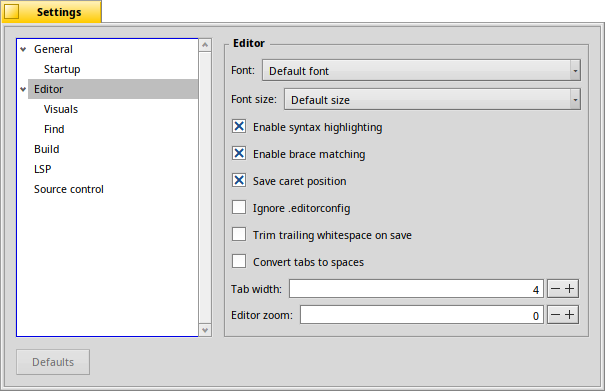
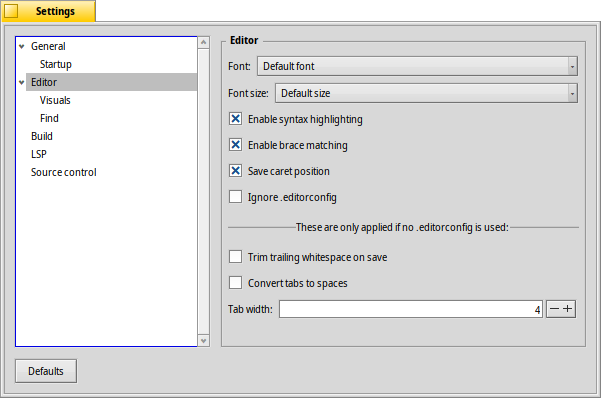
Update documenation
* Menus:
  + Add "Import as RDEF array…" feature.
  + Mention "Show in projects browser" is available from tabs'
    context menus.

* Panes:
  + Fix typos
  + Explicitely mention that double-clicking non-text files will
    open them in their preferred app, with examples.

* Genio settings:
  + Fix anker URLs in index.
  + Move "Editor zoom" setting from Editor to Visuals.

* Toolbar:
  + Changed shortcut for previous/next file from OPT to CTRL.

* Updated screenshots

Changed region(s): [[0.0, 0.0, 1.0, 0.9821]]

diff --git a/documentation/settings-genio.html b/documentation/settings-genio.html
@@ -45,7 +45,7 @@
 
 <h2>
 <a href="#"><img src="./images/up.png" style="border:none;float:right" alt="index" /></a>
-<a id="genio-general" name="genio-general">General</a></h2>
+<a id="general" name="general">General</a></h2>
 
 <p style="text-align:center"><img src="./images/genio-settings-general.png" style="border:none;padding:15px" alt="Genio settings: General" /></p>
 
@@ -69,7 +69,7 @@
 
 <h2>
 <a href="#"><img src="./images/up.png" style="border:none;float:right" alt="index" /></a>
-<a id="genio-general_startup" name="genio-general_startup">General / Startup</a></h2>
+<a id="general_startup" name="general_startup">General / Startup</a></h2>
 
 <p style="text-align:center"><img src="./images/genio-settings-general_startup.png" style="border:none;padding:15px" alt="Genio settings: General / Startup" /></p>
 
@@ -78,7 +78,7 @@
 
 <h2>
 <a href="#"><img src="./images/up.png" style="border:none;float:right" alt="index" /></a>
-<a id="genio-editor" name="genio-editor">Editor</a></h2>
+<a id="editor" name="editor">Editor</a></h2>
 
 <p style="text-align:center"><img src="./images/genio-settings-editor.png" style="border:none;padding:15px" alt="Genio settings: Editor" /></p>
 
@@ -94,27 +94,25 @@
 
 <tr><td class="onelinetop"><span class="menu">Ignore .editorconfig</span></td>
 <td>Opt out of code formatting by <a href="https://editorconfig.org/">EditorConfig</a> (if your project uses that).</td></tr>
+</table>
 
+<p>The rest of the settings are only applied if no <span class="cli">.editorconfig</span> is being used. That is, you either have the above <span class="menu">Ignore .editorconfig</span> checked, or your project simply doesn't use EditorConfig.</p>
+
+<table summary="layout">
 <tr><td class="onelinetop"><span class="menu">Trim trailing whitespace on save</span></td>
-<td>Automatically removes those pesky spaces and tabs at the end of lines when you save a file.<br />
-This setting is only applied if no <span class="cli">.editorconfig</span> is being used.</td></tr>
+<td>Automatically removes those pesky spaces and tabs at the end of lines when you save a file.</td></tr>
 
 <tr><td class="onelinetop"><span class="menu">Convert tabs to spaces</span></td>
-<td>While active, entered tabs are replaced with spaces. Tabs that are already in a file <i>are not</i> replaced.<br />
-This setting is only applied if no <span class="cli">.editorconfig</span> is being used.</td></tr>
+<td>While active, entered tabs are replaced with spaces. Tabs that are already in a file <i>are not</i> replaced.</td></tr>
 
 <tr><td class="onelinetop"><span class="menu">Tab width</span></td>
-<td>Sets the width of tabs in spaces.<br />
-This setting is only applied if no <span class="cli">.editorconfig</span> is being used.</td></tr>
-
-<tr><td class="onelinetop"><span class="menu">Editor zoom</span></td>
-<td>Sets the default zoom of the editor view. It can easily be overridden with the commands in the <a href="./menus.html#view">View menu</a> or by <span class="key">ALT</span> + mousewheeling.</td></tr>
+<td>Sets the width of tabs in spaces.</td></tr>
 </table>
 
 
 <h2>
 <a href="#"><img src="./images/up.png" style="border:none;float:right" alt="index" /></a>
-<a id="genio-editor_visuals" name="genio-editor_visual">Editor / Visual</a></h2>
+<a id="editor_visuals" name="editor_visual">Editor / Visual</a></h2>
 
 <p style="text-align:center"><img src="./images/genio-settings-editor_visual.png" style="border:none;padding:15px" alt="Genio settings: Editor / Visual" /></p>
 
@@ -139,12 +137,15 @@ This setting is only applied if no <span class="cli">.editorconfig</span> is bei
 
 <tr><td class="onelinetop"><span class="menu">Show vertical ruler</span></td>
 <td>Draws a vertical line at the column you set with the spinner below. It helps you keeping a limit on characters per line.</td></tr>
+
+<tr><td class="onelinetop"><span class="menu">Editor zoom</span></td>
+<td>Sets the default zoom of the editor view. It can easily be overridden with the commands in the <a href="./menus.html#view">View menu</a> or by <span class="key">ALT</span> + mousewheeling.</td></tr>
 </table>
 
 
 <h2>
 <a href="#"><img src="./images/up.png" style="border:none;float:right" alt="index" /></a>
-<a id="genio-editor_find" name="genio-editor_find">Editor / Find</a></h2>
+<a id="editor_find" name="editor_find">Editor / Find</a></h2>
 
 <p style="text-align:center"><img src="./images/genio-settings-editor_find.png" style="border:none;padding:15px" alt="Genio settings: Editor / Find" /></p>
 
@@ -167,7 +168,7 @@ This setting is only applied if no <span class="cli">.editorconfig</span> is bei
 
 <h2>
 <a href="#"><img src="./images/up.png" style="border:none;float:right" alt="index" /></a>
-<a id="genio-build" name="genio-build">Build</a></h2>
+<a id="build" name="build">Build</a></h2>
 
 <p style="text-align:center"><img src="./images/genio-settings-build.png" style="border:none;padding:15px" alt="Genio settings: Build" /></p>
 
@@ -188,7 +189,7 @@ This setting is only applied if no <span class="cli">.editorconfig</span> is bei
 
 <h2>
 <a href="#"><img src="./images/up.png" style="border:none;float:right" alt="index" /></a>
-<a id="genio-lsp" name="genio-lsp">LSP</a></h2>
+<a id="lsp" name="lsp">LSP</a></h2>
 
 <p>LSP is Clang's language server protocol. Genio uses it for autocompletion, signature help, jumping to definition / implementation / declaration, quick fix, etc.</p>
 
@@ -204,7 +205,7 @@ This setting is only applied if no <span class="cli">.editorconfig</span> is bei
 
 <h2>
 <a href="#"><img src="./images/up.png" style="border:none;float:right" alt="index" /></a>
-<a id="genio-source_control" name="genio-source_control">Source control</a></h2>
+<a id="source_control" name="source_control">Source control</a></h2>
 
 <p style="text-align:center"><img src="./images/genio-settings-source_control.png" style="border:none;padding:15px" alt="Genio settings: Source control" /></p>
 

diff --git a/documentation/panes.html b/documentation/panes.html
@@ -36,7 +36,7 @@
 	<a href="#output-build-log">┣━ Build log</a><br />
 	<a href="#output-console-io">┣━ Console I/O</a><br />
 	<a href="#output-search-results">┗━ Search results</a><br />
-	<a href="#outline-pane">The Outline"pane</a>
+	<a href="#outline-pane">The Outline pane</a>
 </td></tr>
 </tbody></table>
 
@@ -62,11 +62,11 @@
 Commands like <span class="menu">Project|Build project</span> or a search in the whole project work only on the currently active project. A project can be <span class="menu">Set active</span> from the context menu when right-clicking it.
 </p>
 
-<p>The context menu provides more commands to manage your project, depending on what item it was invoked on. Right-clicking the project name (= top folder), let's you build your project, close it, open its <a href="settings-project.html">Project settings</a>, add new files from templates or open its folder in Tracker, among other things.</p>
+<p>The context menu provides more commands to manage your project, depending on what item it was invoked on. Right-clicking the project name (= top folder), lets you build your project, close it, open its <a href="settings-project.html">Project settings</a>, add new files from templates or open its folder in Tracker, among other things.</p>
 
 <p>A right-click on files or folders inside the project allows you to rename, delete or open a file with its preferred application, etc.</p>
 
-<p>Double-clicking a file opens it in the editor view.</p>
+<p>Double-clicking a file opens it in the editor view, if it's a text file. Filetypes unsupported by Genio get opened in their preferred application. For example, a Bookmark file opens in WebPositive and an icon in Icon-O-Matic.</p>
 <p style="clear:left"></p>
 
 

diff --git a/documentation/menus.html b/documentation/menus.html
@@ -66,7 +66,9 @@ Let's go through all menus and only pick those items that deserve a bit of expla
 <p style="margin-top: 2.2em"><span class="menu">New</span> offers a sub-menu with template files and folders.<br />
 In it is an item <span class="menu">Edit user templates…</span> that opens a folder where you can put your own files/folders to use as templates. Those, too, will then be available in the <span class="menu">New</span> sub-menu.</p>
 
-<p><span class="menu">Show in projects browser</span> will scroll to and select the file you're currently editing in the Projects pane.</p>
+<p>When you're editing an .rdef resource, you can use <span class="menu">Import as RDEF array…</span> to choose any file that'll then get inserted as array at the end of the .rdef file.</p>
+
+<p><span class="menu">Show in projects browser</span> will scroll to and select the file you're currently editing in the Projects pane. It's also available from the context menu of a file's tab above the editor view.</p>
 <p style="clear:left"></p>
 
 

diff --git a/documentation/toolbar.html b/documentation/toolbar.html
@@ -133,8 +133,8 @@ Show or hide the <a href="#replace-bar">Replace bar</a>, also with menu <span cl
 <img src="./images/icons/kIconBack_1.png" alt="Switch to previous file" />
 <img src="./images/icons/kIconForward_2.png" class="icons" alt="Switch to next file" />
 </td><td style="vertical-align: middle">
-<p>Switch to the previous file (the tab to the left), also with <span class="key">OPT</span>&nbsp;<span class="key">←</span>.<br />
-Switch to the next file (the tab to the right), also with <span class="key">OPT</span>&nbsp;<span class="key">→</span>.</p>
+<p>Switch to the previous file (the tab to the left), also with <span class="key">CTRL</span>&nbsp;<span class="key">←</span>.<br />
+Switch to the next file (the tab to the right), also with <span class="key">CTRL</span>&nbsp;<span class="key">→</span>.</p>
 </td></tr>
 
 <tr><td>
